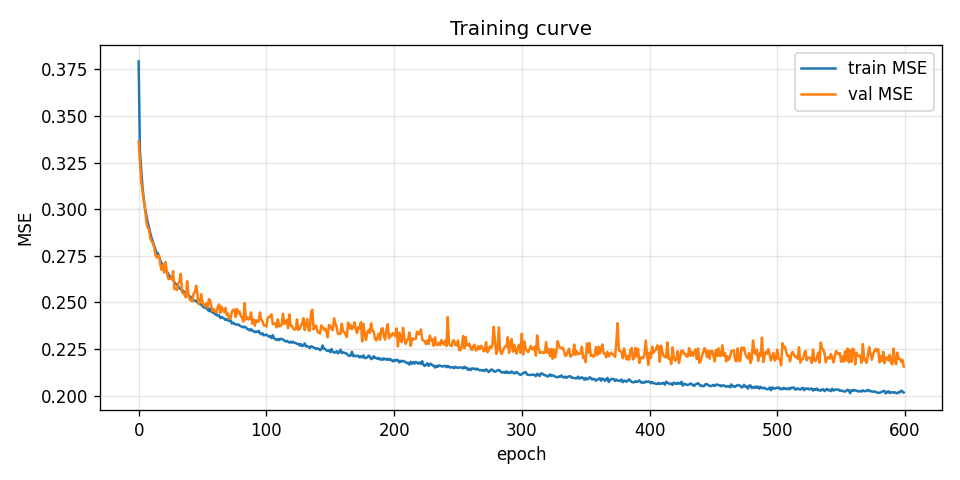
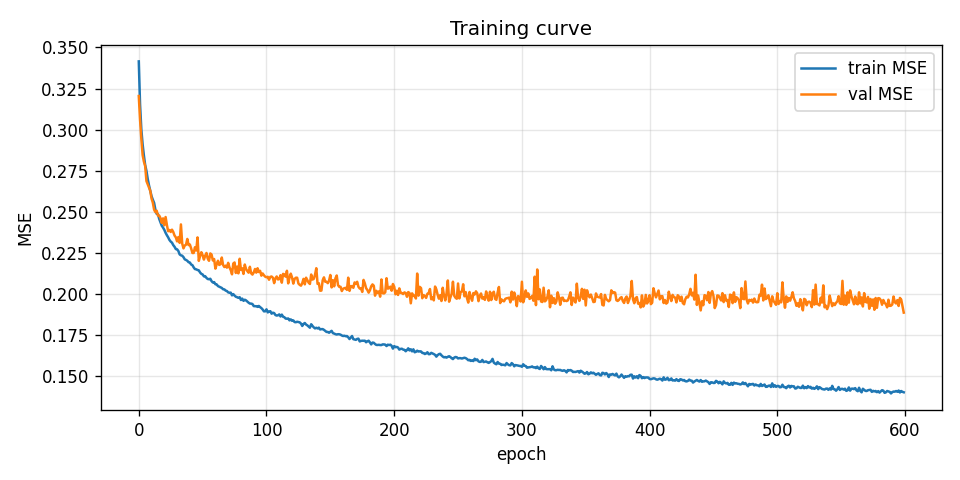
Increased the layer size

Changed region(s): [[0.0312, 0.0625, 0.9688, 0.8438], [0.25, 0.875, 0.3125, 0.9062]]

diff --git a/drive2win/nn.py b/drive2win/nn.py
@@ -15,7 +15,7 @@ you've tried — the whole point of the first iteration is to write it.
 from __future__ import annotations
 import numpy as np
 
-H1, H2 = 64, 32
+H1, H2 =128, 64
 N_IN, N_OUT = 12, 2
 
 